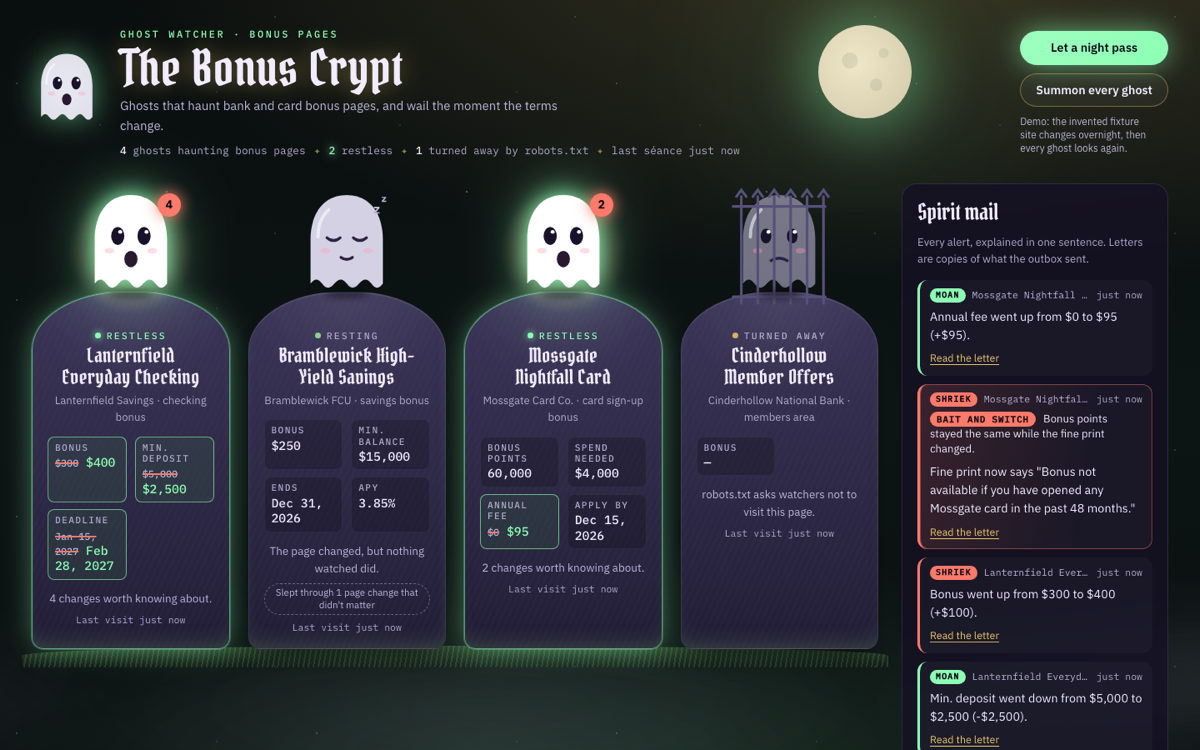
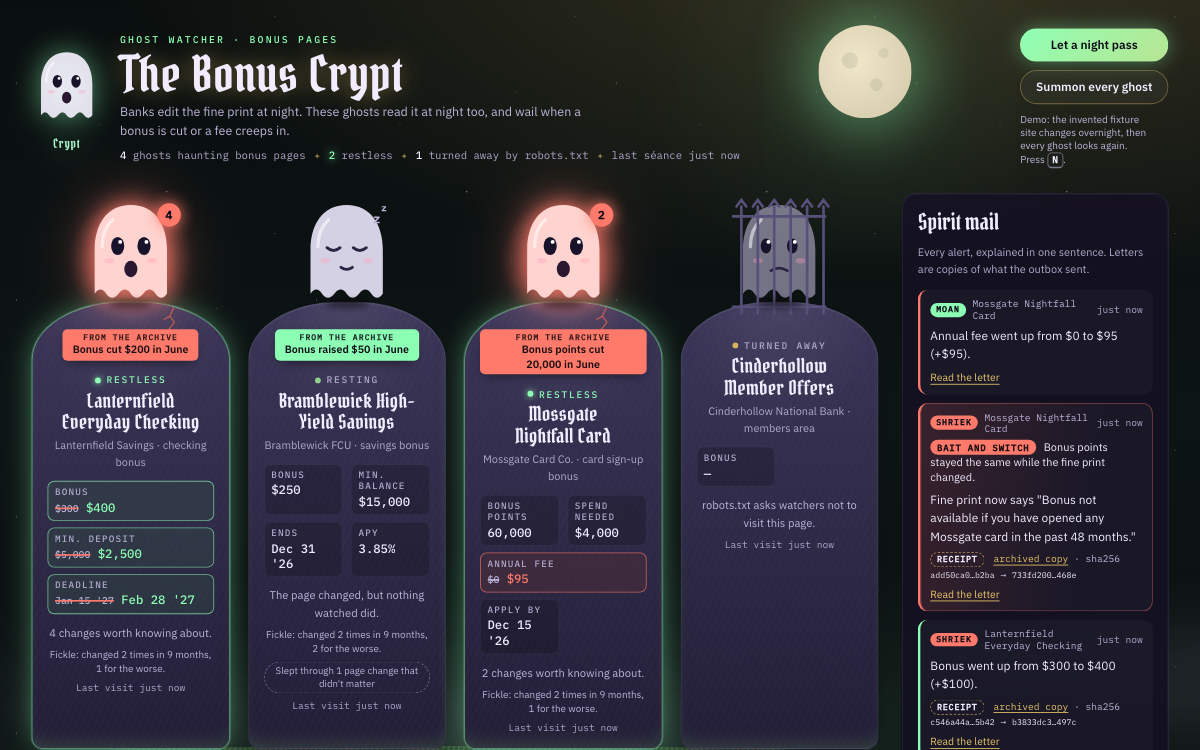
Re-take the README media from the running demos
Adds npm run stills, which starts each demo against its invented fixture
site and saves the README screenshots, and re-records the hero GIF so it
shows the archive ribbons and the shriek scene. Both recorders force the
click on the pulsing night button, which never holds still long enough
for Playwright's stability check.

Unread Spirit mail letters now take the color of their news, so a raised
fee is edged in red and a bigger bonus in the accent color.

diff --git a/scripts/capture-stills.ts b/scripts/capture-stills.ts
@@ -1,0 +1,106 @@
+/**
+ * Re-takes the README stills from the real demos, so they never drift from the dashboard:
+ *
+ *   docs/bonus-crypt.png               the Bonus Crypt after one night
+ *   docs/haunted-listings-seance.png   a séance in Haunted Listings after one night
+ *
+ *   npx tsx scripts/capture-stills.ts      (or: npm run stills)
+ *
+ * Each demo runs on STILLS_PORT (default 3142) and the port after it, against a throwaway data
+ * folder and its invented fixture site. Nothing leaves the machine.
+ */
+import { spawn, type ChildProcess } from 'node:child_process';
+import { mkdtemp, rm } from 'node:fs/promises';
+import { tmpdir } from 'node:os';
+import { join, resolve } from 'node:path';
+import { chromium, type Browser } from '@playwright/test';
+
+const root = resolve(import.meta.dirname, '..');
+const port = Number(process.env.STILLS_PORT ?? 3142);
+// 1440 CSS pixels wide, saved 1200 pixels wide: the layout a laptop sees, at a README-friendly size.
+const viewport = { width: 1440, height: 900 };
+const deviceScaleFactor = 1200 / 1440;
+
+function startDemo(app: string, work: string): ChildProcess {
+  return spawn(process.execPath, ['--import', 'tsx', 'src/main.ts', 'demo', '--port', String(port), '--fixture-port', String(port + 1)], {
+    cwd: join(root, 'apps', app),
+    env: { ...process.env, GHOST_DATA_DIR: join(work, app), GHOST_HOST_GAP_MS: '0' },
+    stdio: 'ignore',
+  });
+}
+
+async function waitForDashboard(): Promise<void> {
+  for (let i = 0; i < 80; i += 1) {
+    try {
+      if ((await fetch(`http://127.0.0.1:${port}/healthz`)).ok) return;
+    } catch {
+      // not up yet
+    }
+    await new Promise((r) => setTimeout(r, 250));
+  }
+  throw new Error(`The demo did not start on port ${port}.`);
+}
+
+async function stopDemo(demo: ChildProcess): Promise<void> {
+  if (demo.exitCode !== null) return;
+  const exited = new Promise((r) => demo.once('exit', r));
+  demo.kill();
+  await exited;
+}
+
+async function capture(browser: Browser, app: string, work: string, shoot: (url: string, out: string) => Promise<void>, out: string) {
+  const demo = startDemo(app, work);
+  try {
+    await waitForDashboard();
+    await shoot(`http://127.0.0.1:${port}`, out);
+    process.stdout.write(`Saved ${out}\n`);
+  } finally {
+    await stopDemo(demo);
+  }
+}
+
+const work = await mkdtemp(join(tmpdir(), 'ghost-stills-'));
+const browser = await chromium.launch();
+try {
+  await capture(
+    browser,
+    'bonus-watch',
+    work,
+    async (url, out) => {
+      const page = await browser.newPage({ viewport, deviceScaleFactor, reducedMotion: 'reduce' });
+      await page.goto(url);
+      // force: the button pulses until pressed, so it never holds still for Playwright's stability check.
+      await page.getByRole('button', { name: 'Let a night pass' }).click({ force: true });
+      await page.locator('#ghost-lanternfield-checking[data-state="restless"]').waitFor();
+      await page.locator('#feed .feed__item[data-stealth="true"]').waitFor();
+      // Let the shriek scene and the toast clear, so the still shows the graveyard at rest.
+      await page.locator('body:not([data-shriek])').waitFor();
+      await page.locator('#toast[data-show="false"]').waitFor({ state: 'attached', timeout: 10_000 });
+      await page.mouse.move(0, 0);
+      await page.screenshot({ path: out });
+      await page.close();
+    },
+    join(root, 'docs', 'bonus-crypt.png'),
+  );
+  await capture(
+    browser,
+    'listing-watch',
+    work,
+    async (url, out) => {
+      const page = await browser.newPage({ viewport: { width: 1440, height: 953 }, deviceScaleFactor, reducedMotion: 'reduce' });
+      await page.goto(url);
+      // force: the button pulses until pressed, so it never holds still for Playwright's stability check.
+      await page.getByRole('button', { name: 'Let a night pass' }).click({ force: true });
+      await page.locator('#ghost-larkspur-rentals[data-state="restless"]').waitFor();
+      await page.locator('#toast[data-show="false"]').waitFor({ state: 'attached', timeout: 10_000 });
+      await page.locator('#ghost-larkspur-rentals .ghost__hit').click();
+      await page.locator('#seance[open]').waitFor();
+      await page.screenshot({ path: out });
+      await page.close();
+    },
+    join(root, 'docs', 'haunted-listings-seance.png'),
+  );
+} finally {
+  await browser.close();
+  await rm(work, { recursive: true, force: true });
+}

diff --git a/scripts/record-hero.ts b/scripts/record-hero.ts
@@ -55,7 +55,8 @@ try {
   await pause(page, 700);
 
   // One night passes.
-  await page.getByRole('button', { name: 'Let a night pass' }).click();
+  // force: the button pulses until pressed, so it never holds still for Playwright's stability check.
+  await page.getByRole('button', { name: 'Let a night pass' }).click({ force: true });
   await page.locator('#ghost-lanternfield-checking[data-state="restless"]').waitFor();
   await pause(page, 3000);
   await page.locator('#feed .feed__item[data-stealth="true"]').hover();

diff --git a/template/src/ui/style.css b/template/src/ui/style.css
@@ -1514,8 +1514,12 @@ body[data-night='true'] .moon {
 
 /* ---------- Spirit mail from the archive, and tone ---------- */
 
-.feed__item[data-tone='good'] {
+/* Unread letters take the color of their news: good glows in the accent, bad is red. */
+.feed__item[data-tone='good']:not([data-acknowledged='true']) {
   border-left-color: var(--accent);
+}
+.feed__item[data-tone='bad']:not([data-acknowledged='true']) {
+  border-left-color: var(--shriek);
 }
 .feed__item--archive {
   background: transparent;

diff --git a/README.md b/README.md
@@ -19,7 +19,7 @@ becoming `$300.00`. When something real changes, it wakes and tells you in one p
 >
 > New listing: 2 bd in Old Mill at 418 Bramble Row, Apt 3 for $1,950/mo.
 
-![The Bonus Crypt in 14 seconds: the Ghost of Terms Past shows Lanternfield's bonus cut from $500 to $300 before any night has passed; then one night passes, two ghosts wake, the stones show $300 struck through beside $400, and Spirit mail fills with a Bait and switch letter](docs/bonus-crypt-night.gif)
+![The Bonus Crypt in 14 seconds: each stone already wears a ribbon from the archive, such as Lanternfield's "Bonus cut $200 in June", and the Ghost of Terms Past shows the cut from $500 to $300 before any night has passed; then one night passes, the moon flushes red, two ghosts wake, the stones show $300 struck through beside $400, and Spirit mail fills with a Bait and switch letter](docs/bonus-crypt-night.gif)
 
 **Why a ghost?** A ghost haunts one page, sleeps until something it was told to care about changes,
 and will not walk through a door robots.txt has closed.
@@ -66,7 +66,7 @@ One reusable template and two apps built from it, each in its own folder:
 | [`apps/bonus-watch/`](apps/bonus-watch/) | **The Bonus Crypt** watches bank and card sign-up bonus pages for changes to the amount, deposit, deadline and fine print |
 | [`apps/listing-watch/`](apps/listing-watch/) | **Haunted Listings** watches rental listings and city building permits, and only speaks up about items that match your filters |
 
-![The Bonus Crypt after one night: four ghosts on tombstones in a row, two glowing with the old values struck through beside the new ones, one asleep after a reformat-only change, one turned away by robots.txt, and the Spirit mail feed with a Bait and switch letter](docs/bonus-crypt.png)
+![The Bonus Crypt after one night: four ghosts on tombstones in a row, each with a ribbon from the archive; two glowing with the old values struck through beside the new ones, a raised annual fee in red, one asleep after a reformat-only change, one turned away by robots.txt, and the Spirit mail feed with a Bait and switch letter](docs/bonus-crypt.png)
 
 ![A séance in Haunted Listings: the listings on the page, which ones are new, the rules that make the ghost stir, and the haunting log](docs/haunted-listings-seance.png)
 
@@ -239,6 +239,7 @@ npm run test:unit      # Vitest only
 npm run test:e2e       # Playwright only (run `npx playwright install chromium` once first)
 npm run noise          # print the noise-ratio table above
 npm run hero           # re-record docs/bonus-crypt-night.gif from the demo (needs ffmpeg)
+npm run stills         # re-take the README screenshots from both demos
 ```
 
 [`.github/workflows/test.yml`](.github/workflows/test.yml) runs the same `npm test` on pushes to

diff --git a/CHANGELOG.md b/CHANGELOG.md
@@ -2,6 +2,8 @@
 
 ## 2026-11-18
 
+- **Fresh media.** `npm run stills` re-takes the README screenshots from the running demos, and the
+  hero GIF is re-recorded with the archive ribbons and the shriek scene.
 - **Positioning.** The README and the Bonus Crypt's subtitle now lead with terms drift and one
   persona, bonus hunters, with a sourced community size and the yearly stake. Beyond Kiroween
   names two tiers, a sourced market anchor and a dated reason for now.
